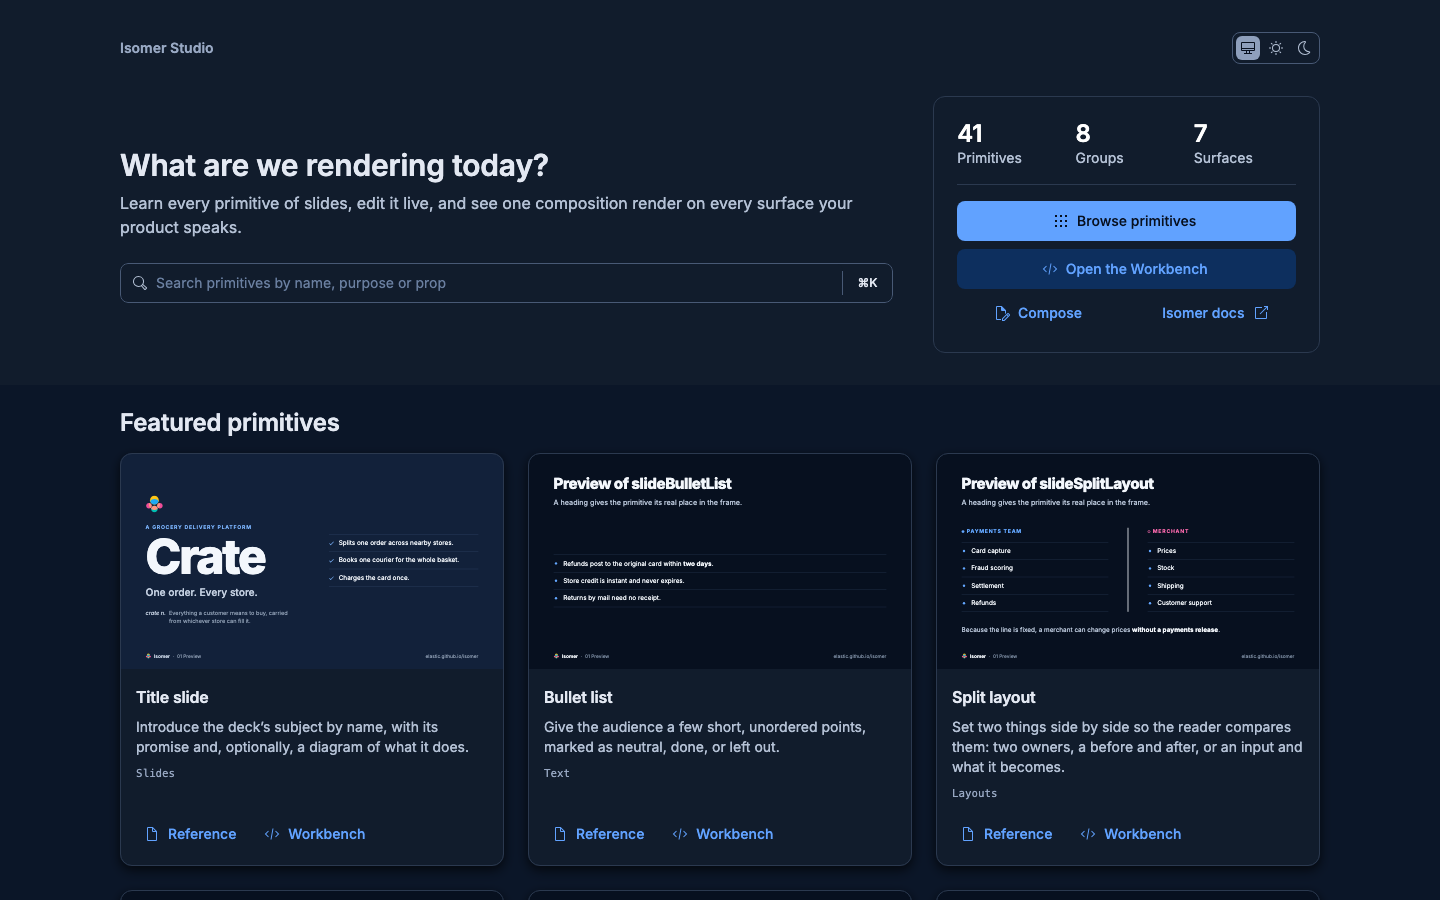
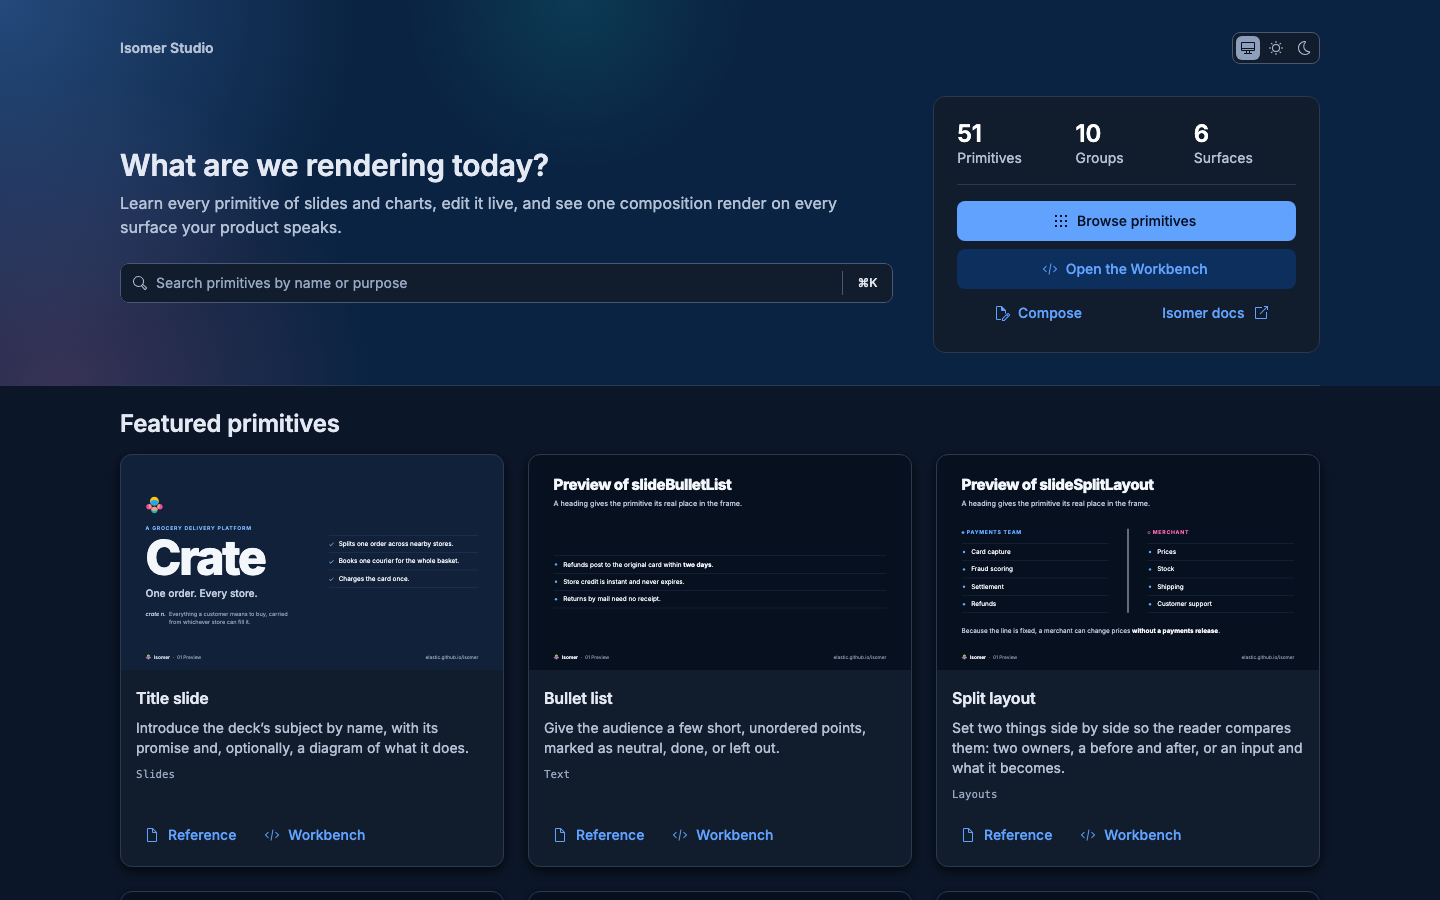
feat(studio): bring Home's hero closer to the app, and make Gallery links buttons
Home's hero now uses the shell's corner-glow background in the current color mode.
It ends in a hairline across the full page instead of a hard colour edge.
Its title uses the default text colour.
Gallery's "Open in Workbench" link is an icon button, like the one on Reference pages.
A tile's header wraps when its title and button run out of room, so Gallery never scrolls sideways.
The Home screenshot in the docs shows the new hero.

diff --git a/packages/isomer-studio/e2e/studio.spec.ts b/packages/isomer-studio/e2e/studio.spec.ts
@@ -1432,8 +1432,68 @@ test.describe('static build', () => {
       );
       expect(background > 128).toBe(colorScheme === 'light');
       expect(Math.abs(background - heading)).toBeGreaterThan(128);
+
+      const hero = await panel
+        .getByRole('heading', { level: 1 })
+        .evaluate((element) => {
+          const section = element.closest('section')!;
+          const style = getComputedStyle(section);
+          return {
+            color: style.backgroundColor,
+            glows: style.backgroundImage.split('radial-gradient').length - 1,
+            width: section.getBoundingClientRect().width,
+            page: section.closest('main')!.clientWidth,
+            divider: style.borderBottomWidth,
+          };
+        });
+      expect(lightness(hero.color) > 128).toBe(colorScheme === 'light');
+      expect(hero.glows).toBe(3);
+      // The hairline spans Home's scrolling page, under the full-width background.
+      expect(hero.width).toBe(hero.page);
+      expect(hero.divider).not.toBe('0px');
     });
   }
+
+  test("keeps each Gallery tile's Workbench button inside its tile in three narrow columns", async ({
+    page,
+  }) => {
+    test.skip(
+      Boolean(process.env.STUDIO_CONFIG),
+      'needs a group with at least three examples, as the repository pack has'
+    );
+    await page.setViewportSize({ width: 800, height: 900 });
+    await page.goto(`${site.url}#/docs/gallery`);
+    const tiles = page.locator('main .euiPanel:has([inert])');
+    await expect(tiles.first()).toBeVisible();
+    for (const tile of await tiles.all()) {
+      await expect(
+        tile.getByRole('link', { name: /^Open .+ in Workbench$/ })
+      ).toBeVisible();
+    }
+    const measured = await tiles.evaluateAll((panels) =>
+      panels.map((panel) => {
+        const tile = panel.getBoundingClientRect();
+        const link = panel
+          .querySelector('a[aria-label$=" in Workbench"]')
+          ?.getBoundingClientRect();
+        return {
+          top: tile.top,
+          inside: Boolean(
+            link && link.left >= tile.left && link.right <= tile.right
+          ),
+        };
+      })
+    );
+    const [first] = measured;
+    expect(measured.filter(({ top }) => top === first!.top)).toHaveLength(3);
+    expect(measured.filter(({ inside }) => !inside)).toEqual([]);
+    expect(
+      await page
+        .locator('main')
+        .first()
+        .evaluate(({ scrollWidth, clientWidth }) => scrollWidth <= clientWidth)
+    ).toBe(true);
+  });
 });
 
 test.describe('decks', () => {

diff --git a/packages/isomer-studio/src/home/home_view.tsx b/packages/isomer-studio/src/home/home_view.tsx
@@ -26,6 +26,7 @@ import {
   EuiStat,
   EuiText,
   EuiTitle,
+  useEuiTheme,
 } from '@elastic/eui';
 import { css } from '@emotion/react';
 
@@ -41,6 +42,7 @@ import {
 import { Glyph, PrimitiveGlyph } from '../chrome/primitive_glyph';
 import { PrimitiveSearch } from '../chrome/primitive_search';
 import { formatLocation, formatRoute, GALLERY } from '../chrome/route';
+import { shellBackground } from '../chrome/shell_background';
 import type { ComposeParams } from '../model/compose_link';
 import type { PrimitiveDoc } from '../model/describe_runtime';
 import { pickFeatured } from '../model/featured';
@@ -224,15 +226,20 @@ export const HomeView = ({
   const surfaces = previewSurfaces(supported, Boolean(rasterizePng));
   const first = groups[0]?.types[0] ?? primitives[0]?.type ?? '';
   const packNames = new Intl.ListFormat('en').format(packs.map(({ id }) => id));
+  const { euiTheme } = useEuiTheme();
 
   return (
     <div data-testid="home">
-      <EuiPageSection restrictWidth={WIDTH} paddingSize="xl">
+      <EuiPageSection
+        restrictWidth={WIDTH}
+        paddingSize="xl"
+        bottomBorder="extended"
+        css={shellBackground(euiTheme, 'docs')}>
         <EuiFlexGroup
           justifyContent="spaceBetween"
           alignItems="center"
           responsive={false}>
-          <EuiText size="s" color="subdued">
+          <EuiText size="s">
             <strong>{title}</strong>
           </EuiText>
           <ColorModePicker {...{ colorMode, onColorModeChange }} />

diff --git a/packages/isomer-studio/src/docs/gallery_view.tsx b/packages/isomer-studio/src/docs/gallery_view.tsx
@@ -8,10 +8,10 @@
 import type { ReactNode } from 'react';
 import React, { useEffect, useMemo, useRef, useState } from 'react';
 import {
+  EuiButtonEmpty,
   EuiFlexGrid,
   EuiFlexGroup,
   EuiFlexItem,
-  EuiLink,
   EuiPanel,
   EuiSpacer,
   EuiText,
@@ -117,20 +117,20 @@ const ExampleTile = ({
   eager: boolean;
 }) => (
   <EuiPanel hasBorder hasShadow={false} paddingSize="m">
-    <EuiFlexGroup gutterSize="s" alignItems="center" responsive={false}>
+    <EuiFlexGroup gutterSize="s" alignItems="center" responsive={false} wrap>
       <EuiFlexItem>
         <EuiText size="s">
           <strong>{label}</strong> · {name}
         </EuiText>
       </EuiFlexItem>
       <EuiFlexItem grow={false}>
-        <EuiText size="xs">
-          <EuiLink
-            href={devHref}
-            aria-label={`Open ${label} ${name} in Workbench`}>
-            Open in Workbench
-          </EuiLink>
-        </EuiText>
+        <EuiButtonEmpty
+          size="s"
+          iconType="code"
+          href={devHref}
+          aria-label={`Open ${label} ${name} in Workbench`}>
+          Workbench
+        </EuiButtonEmpty>
       </EuiFlexItem>
     </EuiFlexGroup>
     <EuiSpacer size="s" />
